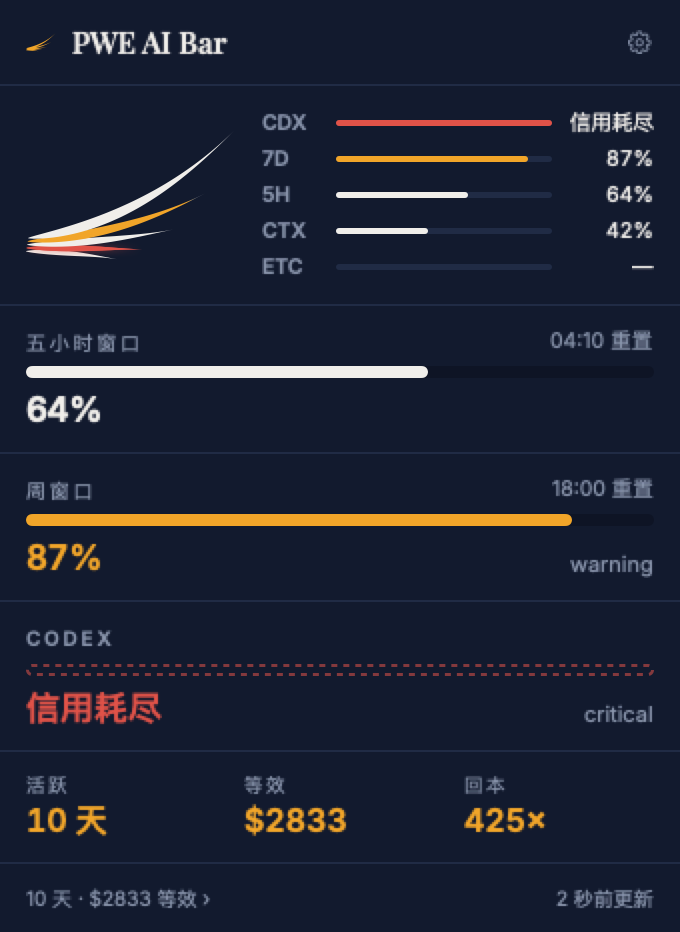
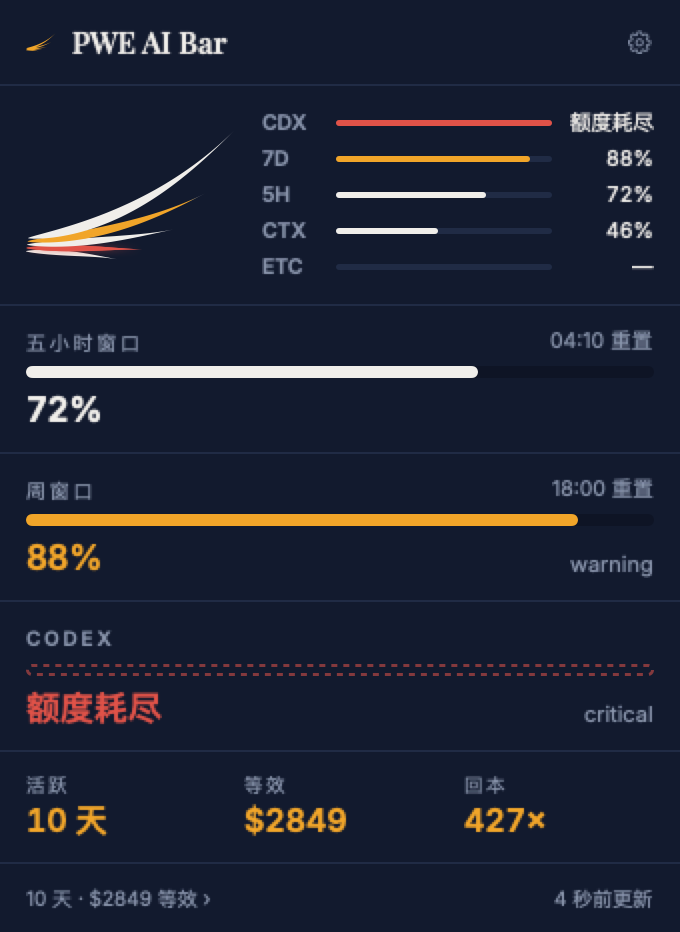
provider 用剪影而不是字母，Claude 标记重画
字母徽标要读才认得出，两个字母在 13pt 下长得一样。剪影是在读之前就被认出来的，
这正是这里要解决的问题：在你没盯着看的菜单栏里分辨 Claude 和 Codex。

- Claude：十片两头收尖、内三分之一最饱满的叶片，中心留空。
  第一版是细直线加实心中心点，看着像太阳；第二版叶片太肥，像雏菊。
- Codex：六重织结。显而易见的画法（六个填充椭圆 + even-odd）渲染出来是全空的，
  每片都和偶数个邻居重叠，整个标记自己抵消掉了。改成描边六个旋转椭圆再填充。
- Gemini：四角星，凹边。

三个剪影形状截然不同——尖爆发／圆织结／菱形星——13pt 下靠轮廓就能分开，
不依赖颜色，也不依赖辨认字母。全部单色矢量，随健康状态着色；
AI Usage 从另一头得出同样结论，它把 provider 图形做成灰度 template SVG 交给系统上色。

另：Codex 的「信用耗尽」改为「额度耗尽」。

diff --git a/Sources/PWEAIBar/App/ProviderMark.swift b/Sources/PWEAIBar/App/ProviderMark.swift
@@ -30,29 +30,48 @@ enum ProviderMark {
         }
     }
 
-    /// Claude — a radial burst of tapered rays, unequal in length. Spiky, asymmetric, and
-    /// nothing else in a menu bar looks like it.
+    /// Claude — a radial burst of tapered blades.
+    ///
+    /// Three things make it read as this mark rather than a generic star. The blades are
+    /// lenses, not spikes: widest around their middle and coming to a point at both ends, so
+    /// the mark has weight without a heavy centre. They stop short of the origin, leaving a
+    /// small open eye where a filled hub would otherwise turn the whole thing into a sun. And
+    /// their lengths vary on a short irregular cycle, which is what separates a drawn burst
+    /// from a compass rose.
     private static func burst(in rect: CGRect) -> NSBezierPath {
         let c = CGPoint(x: rect.midX, y: rect.midY)
         let r = min(rect.width, rect.height) / 2
         let path = NSBezierPath()
-        // Ray lengths repeat in a short irregular cycle so the burst reads as drawn rather
-        // than generated — an even star is a different mark entirely.
-        let lengths: [CGFloat] = [1.0, 0.62, 0.86, 0.70, 1.0, 0.66, 0.90, 0.62, 0.96, 0.72]
-        let half = CGFloat.pi / CGFloat(lengths.count) * 0.30   // ray half-width at the root
+
+        let lengths: [CGFloat] = [1.0, 0.80, 0.93, 0.78, 1.0, 0.83, 0.96, 0.76, 0.99, 0.86]
+        let n = lengths.count
+        let rIn = r * 0.17                  // the open eye
+        // Narrow enough that ten blades stay separate at 13 pt: any fatter and the burst
+        // closes up into a daisy, which is a different mark and the wrong one.
+        let width = r * 0.088
+
         for (i, len) in lengths.enumerated() {
-            let a = CGFloat(i) * 2 * .pi / CGFloat(lengths.count) - .pi / 2
-            let tip = CGPoint(x: c.x + cos(a) * r * len, y: c.y + sin(a) * r * len)
-            let l = CGPoint(x: c.x + cos(a - half) * r * 0.20, y: c.y + sin(a - half) * r * 0.20)
-            let rr = CGPoint(x: c.x + cos(a + half) * r * 0.20, y: c.y + sin(a + half) * r * 0.20)
-            path.move(to: l)
-            path.curve(to: tip, controlPoint1: l, controlPoint2: tip)
-            path.curve(to: rr, controlPoint1: tip, controlPoint2: rr)
+            // Half a step of rotation so no blade sits dead vertical — a mark that lines up
+            // with the pixel grid reads as a widget, not a logo.
+            let a = (CGFloat(i) + 0.5) * 2 * .pi / CGFloat(n) - .pi / 2
+            let dir = CGPoint(x: cos(a), y: sin(a))
+            let perp = CGPoint(x: -dir.y, y: dir.x)
+            let rOut = r * len
+            let span = rOut - rIn
+
+            func at(_ t: CGFloat, _ side: CGFloat) -> CGPoint {
+                CGPoint(x: c.x + dir.x * (rIn + span * t) + perp.x * width * side,
+                        y: c.y + dir.y * (rIn + span * t) + perp.y * width * side)
+            }
+            let inner = at(0, 0), outer = at(1, 0)
+
+            path.move(to: inner)
+            // Fullest in the inner third, so the blades read as radiating outward and taper
+            // to needle tips rather than bulging into petals.
+            path.curve(to: outer, controlPoint1: at(0.22, 1), controlPoint2: at(0.60, 1))
+            path.curve(to: inner, controlPoint1: at(0.60, -1), controlPoint2: at(0.22, -1))
             path.close()
         }
-        // A small hub keeps the rays from reading as loose specks when the icon is scaled down.
-        path.appendOval(in: CGRect(x: c.x - r * 0.17, y: c.y - r * 0.17,
-                                   width: r * 0.34, height: r * 0.34))
         return path
     }
 
